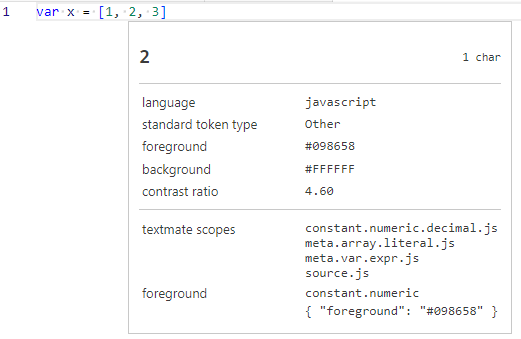
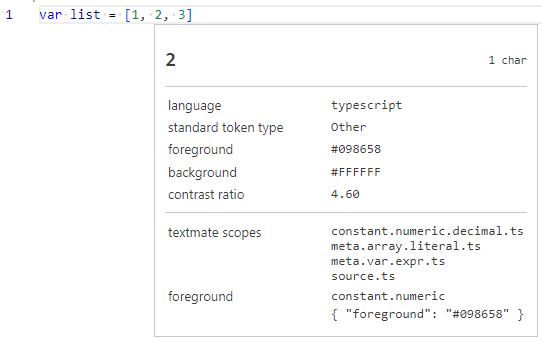
Updated presentation materials

diff --git a/presentation/conference/main.md b/presentation/conference/main.md
@@ -1,18 +1,20 @@
 ---
 marp: true
+paginate: true
 ---
 
 # Особенности реализации системы подсветки синтаксиса в некоторых средах разработки
 
-ИВМО-04-21, Проказин Михаил Руславнович
+Автор: Проказин Михаил Русланович, ИВМО-04-21
+Руководитель: Уманский Станислав Александрович
 
 ---
 
 # Об этом выступлении
 
-- Тема: Методы доменно-оринетированной подсветки синтаксиса в средах разработки
+- Тема моей диссертации: Методы доменно-оринетированной подсветки синтаксиса в средах разработки
 - Доменно-ориентированная подсветка синтаксиса = семантическая подсветка синтаксиса + карты семантических доменов + интерфейс для конфигурации
-- В ходе работы было в том числе проведено исследование разных реализаций систем подсветки синтаксиса
+- В ходе работы было в том числе было проведено исследование разных реализаций систем подсветки синтаксиса
 
 ---
 
@@ -51,19 +53,13 @@ def foo(p):
 
 ---
 
-# Пример определения TextMate грамматики
+# Работа грамматик
 
-Фрагмент определения TextMate грамматики для JavaScript
+| Фрагмент определения | Отображение в редакторе |
+| - | - |
+| Фрагмент определения TextMate грамматики для TypeScript <br> ![height:10em](./pictures/textmate-sample.png) | На скриншоте видно иерархию областей (scopes) TextMate <br> ![height:10em](./pictures/textmate-work-sample.png) | 
 
-![](./pictures/textmate-sample.png)
 
----
-
-# Пример работы грамматики
-
-![](./pictures/textmate-work-sample.png)
-
-На скриншоте видно иерархию областей (scopes) TextMate
 
 ---
 
@@ -100,15 +96,7 @@ def foo(p):
 
 ---
 
-# Что не упомянуто
-
-- История развития подсветки синтаксиса
-- Другие технологии подсветки синтаксиса
-- Специфика работы языковых серверов
-- Особенности API семантических токенов языкового сервера
-
----
-
 # Особенности реализации системы подсветки синтаксиса в некоторых средах разработки
 
-ИВМО-04-21, Проказин Михаил Руславнович
+Автор: Проказин Михаил Русланович, ИВМО-04-21
+Руководитель: Уманский Станислав Александрович

diff --git a/presentation/graduation/main.md b/presentation/graduation/main.md
@@ -1,18 +1,30 @@
 ---
 marp: true
+paginate: true
 ---
 
 МИРЭА - Российский Технологический Университет
 
 # Методы доменно-оринетированной подсветки синтаксиса в средах разработки
 
-ИВМО-04-21, Проказин Михаил Русланович
-Руководитель работы: Уманский Станислав Александрович
+Автор: Проказин Михаил Русланович, ИВМО-04-21
+Руководитель: Уманский Станислав Александрович
+
+--- 
+
+# Цель работы
+
+- Предложить метод реализации доменно-ориентированной системы подсветки синтаксиса
+
+# Задачи работы
+
+- Исследовать реализации систем подсветки синтаксиса в современных средах разработки
+- Спроектировать реализацию системы доменно-ориентированной подсветки синтаксиса
+- Разработать прототип реализации
 
 ---
 
 # Что такое подсветка синтаксиса
-
 
 Без подсветки синтаксиса:
 ```
@@ -58,7 +70,7 @@ _По данным Stack Overflow Developer Survey 2021_
 # Что такое семантическая подсветка синтаксиса
 
 <style>
-    div.static-vs-semantic img { width: 12em; }
+    div.static-vs-semantic img { width: 10em; }
 </style>
 
 <div class="static-vs-semantic">
@@ -69,11 +81,12 @@ _По данным Stack Overflow Developer Survey 2021_
 
 </div>
 
-- Передаёт пользователю больше данных с помощью цветов
-- Может передавать избыточную информацию
-- Подвержена коллизиям модификаторов семантических токенов
+Были **выявлены следующие проблемы:**
 
---- 
+- Возможно передачи избыточной информации
+- Подверженность коллизиям модификаторов семантических токенов
+
+---
 
 # Доменно-ориентированная подсветка синтаксиса
 
